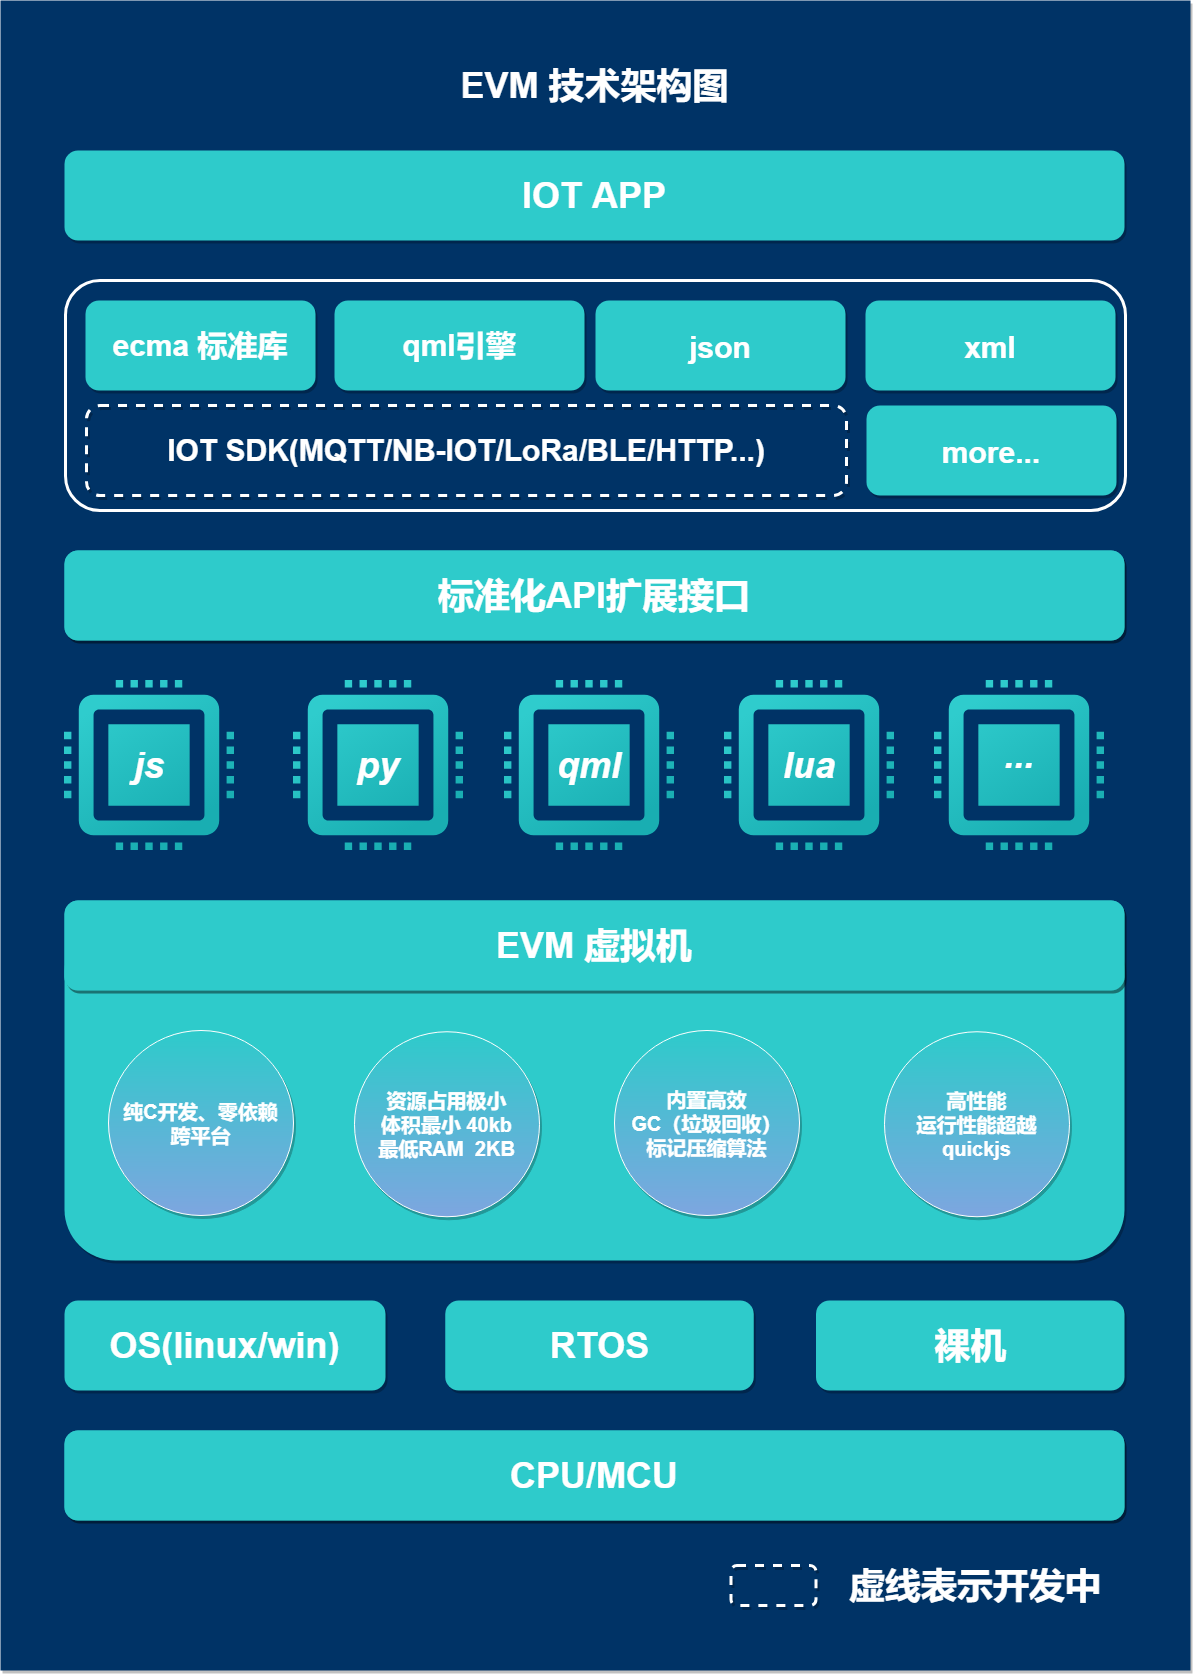
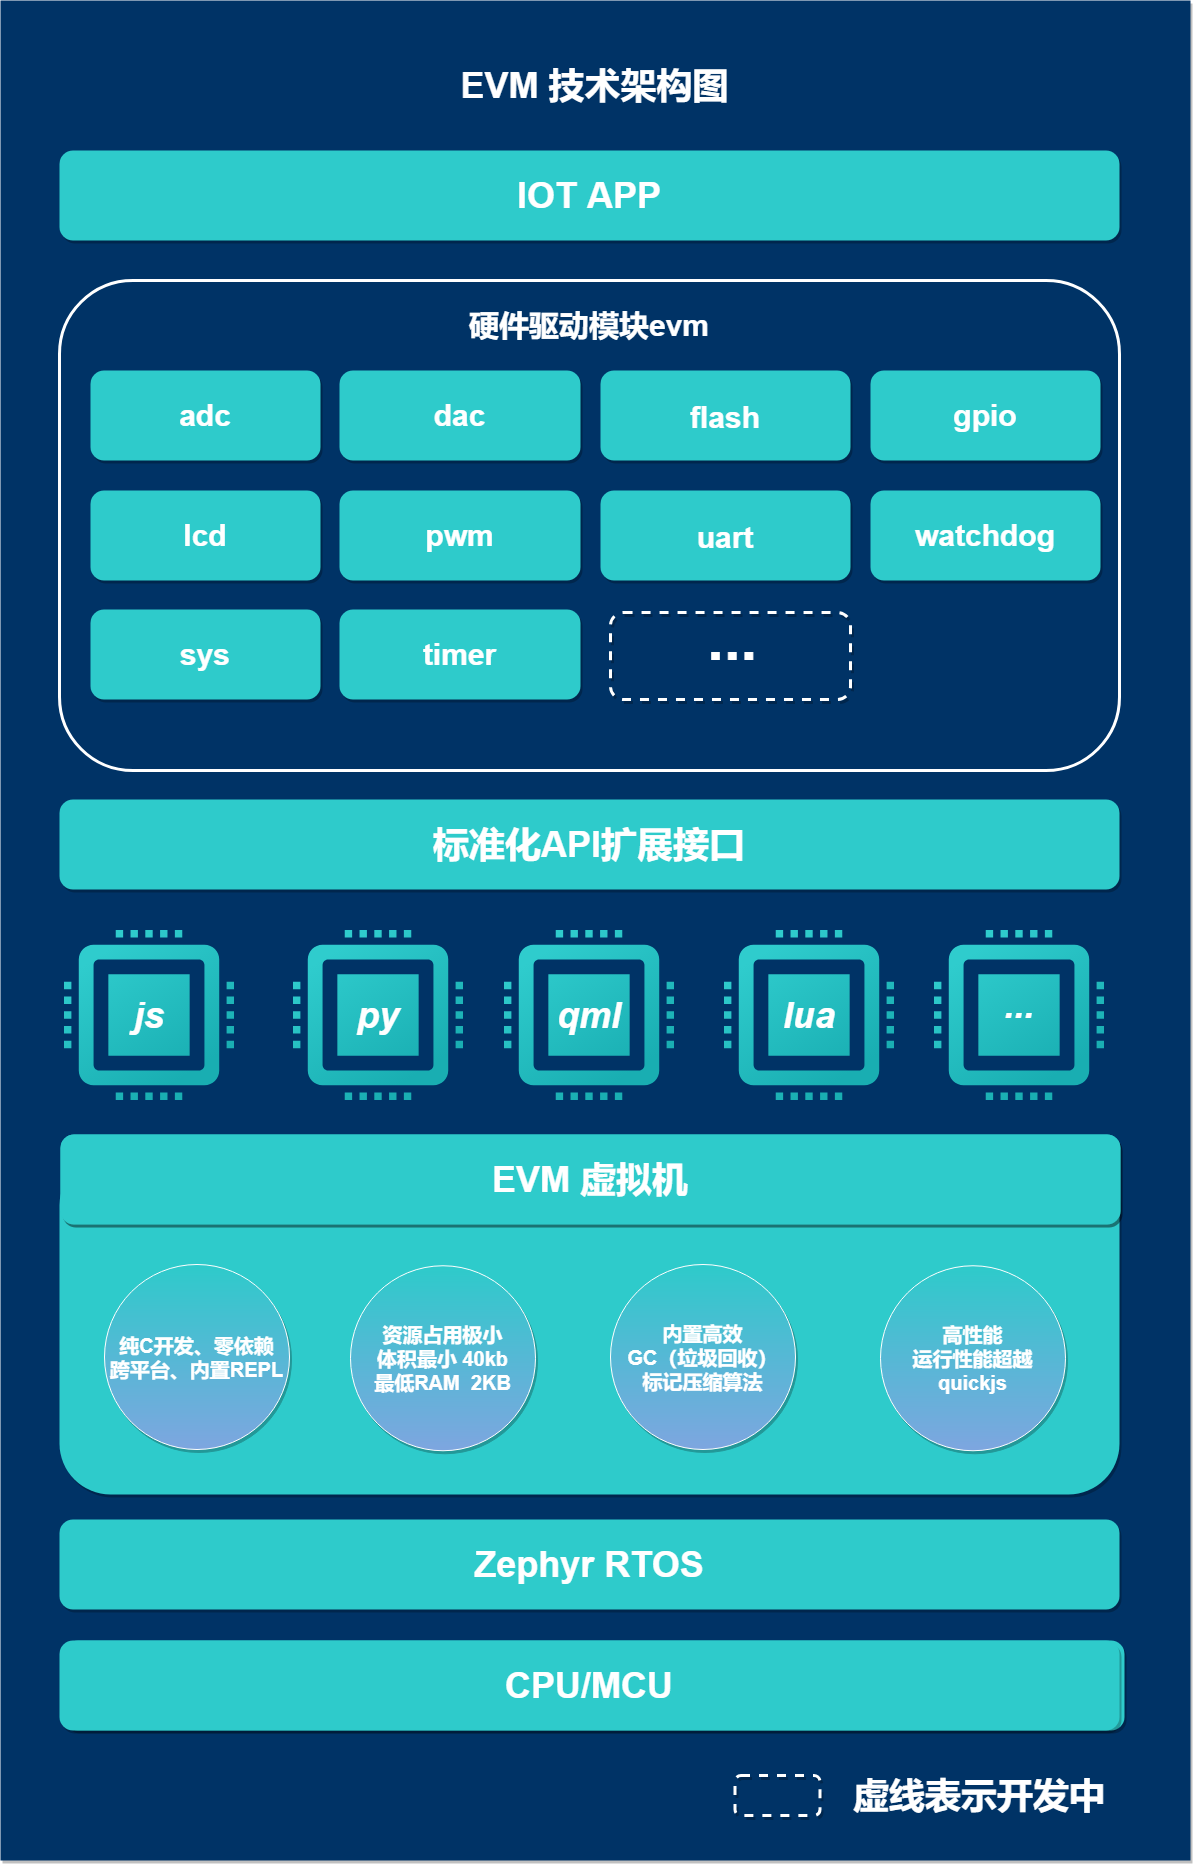
更新文档

diff --git a/zh-cn/evm_what.md b/zh-cn/evm_what.md
@@ -1,73 +1,105 @@
-##  1.  EVM 是什么
+一、EVM简介
+========================================
+
++ GIthub 地址： https://github.com/scriptiot/evm
++ Gitee  地址： https://gitee.com/scriptiot/evm
+
+###  1.  EVM 是什么
 
  **`EVM`** 全称 `Embedded Virtural Machine`，本质上是一款通用、精简的嵌入式虚拟机，由语法解析前端框架和字节码运行后端构成，可运行在资源受限制的单片机上。
 
-
 ![evm](./image/logo.png)
 
----
-
-## 2. 仓库地址
-
- + GIthub 地址： https://github.com/scriptiot/evm
- + Gitee  地址： https://gitee.com/scriptiot/evm
-
----
-
-## 3. EVM 技术架构
+### 2. EVM 技术架构
 
 ![evm](./image/evm.png)
 
----
+### 3. EVM 优势特点
 
-## 4. EVM 优势特点
-
++ 纯C开发、零依赖、跨平台、内置REPL；
 + 最小编译体积40KB，最小内存占用2KB;
 + 支持多语言混合开发，目前支持Javascript、Python、Lua、QML、Json、XML等语言;
 + 先进的内存管理，无内存泄露和内存碎片问题;
 + 高效的运行性能，性能媲美QuickJs;
 + 灵活的虚拟机扩展技术，多语言可共享扩展功能;
 
----
 
-## 5. EVM愿景
+### 4. EVM愿景
 
 > `万物互联，因我们而简单`
 
 打破物联网和互联网人才边界，赋能物联网企业和开发者全新的开发模式，降低物联网开发门槛，极速提升开发效率。
 
----
 
-## 6. EVM问卷调查
+二、EVM 代码目录
+======================================== 
 
+
+## 2. 目录结构介绍
+
+| 文件      |    说明|
+| :-------- | --------:|
+| **bsp**| 开发板适配目录 |
+| **bsp/stm32/bearpi_stm32l431**| 小熊派开发板 |
+| **bsp/qemu_cortex_m3**|qemu_cortex_m3目录 |
+| **components**| 第三方组件目录 |
+| **components/zephyr**| zephyr rtos组件目录 |
+| **doc**| 图片文档资源目录 |
+| **drivers**| 驱动适配层 |
+| **ejs**|   ejs主程序evm_main.c目录  | 
+| **include**|   头文件目录  | 
+| **lib**|   ejs静态库  |
+| **lib/arm-none-eabi-gcc/cortext_m3**|   cortext_m4系列libejs静态库  |
+| **lib/arm-none-eabi-gcc/cortext_m4**|   cortext_m4系列libjese静态库  |
+| **modules**|  模块目录  |
+| **modules/ecma**|  je标准库ecma模块  | 
+| **modules/ecma**|  硬件外设驱动evm模块  | 
+| **tools**|  工具目录|
+| **tools/evm.sh**|  一键安装evm.sh脚本|
+| **README.md**|   项目说明文档|
+
+
+三、EVM 在线帮助手册
+========================================
+
++ [evm在线帮助手册Github](https://scriptiot.github.io/evm_doc/#/zh-cn/evm_what)
++ [evm在线帮助手册Gitee](https://scriptiot.gitee.io/evm_doc/#/zh-cn/evm_what)
+
+四、EVM 适配开发板
+========================================
+
+参考  **`bsp目录`**， 未来会适配更多的开发板
+
++ stm32系列
+  + bearpi_stm32l431 小熊派开发板
+  + qemu_cortex_m3  基于qemu模拟cortex_m3
+
+
+五、 EVM问卷调查
+========================================
 
 > **欢迎大家投票，选出你最喜欢的物联网开发语言， EVM团队会优先支持!**
 
 [EVM支持多语言开发物联网，你最希望支持的语言是哪一种语言?](https://www.wenjuan.com/s/Qre6Vf/)
 
----
 
-## 7. 贡献代码
-
+六、贡献代码
+========================================
 + 在您自己的GitHub账户下Fork **`EVM`** 开源项目；
 + 根据您的需求在本地clone 一份 **`EVM`** 代码；
 + 您修改或者新增功能后，push 到您fork的远程分支；
 + 创建 pull request，向 **`EVM`** 官方开发分支提交合入请求；
 + **`EVM`** 研发团队会定期review代码，通过测试后合入。
 
----
-
-## 8. 加入EVM官方QQ技术交流群
-
+七、加入EVM官方QQ技术交流群
+========================================
 
 > 群号：**`399011436`**
 
 ![evm](./image/QQ.jpg)
 
----
-
-## 9.联系我们
-
+八、联系我们
+========================================
 + 论坛： [EVM官方技术交流论坛](http://47.105.117.50/discuzx/upload/)
 + 邮箱： scriptiot@aliyun.com
 

diff --git a/zh-cn/evm_v1.0.md b/zh-cn/evm_v1.0.md
@@ -2,6 +2,8 @@
 
  **`EVM`** 全称 `Embedded Virtural Machine`，本质上是一款通用、精简的嵌入式虚拟机，由语法解析前端框架和字节码运行后端构成，可运行在资源受限制的单片机上。
 
+![evm](./image/evm.png)
+
 ## 2. 更新内容
 
 + 增加对Zephyr（Linux基金会旗下开源RTOS）全面支持
@@ -46,3 +48,20 @@
 ![evm](./image/QQ.jpg)
 
 ---
+
+## 8. 贡献代码
+
++ 在您自己的GitHub账户下Fork **`EVM`** 开源项目；
++ 根据您的需求在本地clone 一份 **`EVM`** 代码；
++ 您修改或者新增功能后，push 到您fork的远程分支；
++ 创建 pull request，向 **`EVM`** 官方开发分支提交合入请求；
++ **`EVM`** 研发团队会定期review代码，通过测试后合入。
+
+
+
+## 9、联系我们
+========================================
++ 论坛： [EVM官方技术交流论坛](http://47.105.117.50/discuzx/upload/)
++ 邮箱： scriptiot@aliyun.com
+
+欢迎大家通过 `GitHub issues`、`邮件` `论坛` 或 `QQ群`反馈问题和联系我们。

diff --git a/README.md b/README.md
@@ -24,6 +24,7 @@
 
 ## 4. EVM 优势特点
 
++ 纯C开发、零依赖、跨平台、内置REPL；
 + 最小编译体积40KB，最小内存占用2KB;
 + 支持多语言混合开发，目前支持Javascript、Python、Lua、QML、Json、XML等语言;
 + 先进的内存管理，无内存泄露和内存碎片问题;
